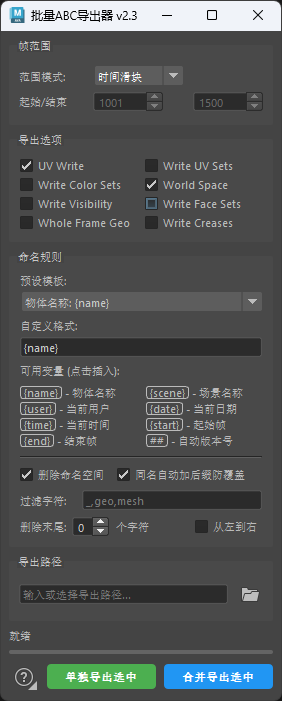
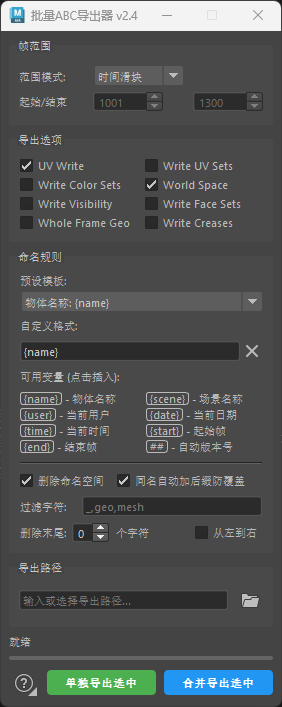
v2.4：自定义格式一键清空、清空图标矢量化抗模糊、去除最大化按钮、进度百分比整数显示

diff --git a/Batch_ABC_Export.py b/Batch_ABC_Export.py
@@ -3,8 +3,8 @@
 -------------------------------------------------------------
  插件名称: 批量ABC导出器
  作者: toyvfish
- 当前版本: v2.3
- 最后更新时间: 2026-10-15
+ 当前版本: v2.4
+ 最后更新时间: 2026-10-19
  适用软件: Autodesk Maya (PySide2 / PySide6)
  功能简介: 批量 Alembic (ABC) 导出工具，支持单独/合并导出、
            智能命名模板、自动版本号、同名防覆盖与设置记忆
@@ -57,7 +57,7 @@ def _get_header_candidate_paths():
     return paths
 
 
-def _read_header_version(default="v2.3"):
+def _read_header_version(default="v2.4"):
     """从文件头信息中读取“当前版本”字段，读取失败时回退 default
 
     优先解析模块 docstring(__doc__): 无论 import、脚本编辑器粘贴执行
@@ -257,6 +257,7 @@ class HelpDialog(QtWidgets.QDialog):
 <p>• 镜头版本：场景_物体_版本_用户</p>
 <p>• 日期版本：物体_日期_版本</p>
 <p>• 时间范围：物体_起始帧-结束帧</p>
+<p>• 自定义格式输入框右侧的 Maya 图标按钮可一键清空格式内容</p>
 <p>------------------------------------------------------------------
 
 <p><b>可用变量：</b>（在主界面命名规则区域点击变量按钮，可直接插入到自定义格式输入框）</p>
@@ -310,6 +311,17 @@ class HelpDialog(QtWidgets.QDialog):
         # 更新日志内容
         changelog_content = """
 <h2>更新日志</h2>
+
+<h3>v2.4</h3>
+
+<p style="margin-top: 12px">• <b>[新增] 自定义格式一键清空</b></p>
+<p style="margin-left: 14px">点击即可清空格式内容并同步模板为“自定义”。</p>
+
+<p style="margin-top: 12px">• <b>[移除] 去除窗口最大化按钮</b></p>
+<p style="margin-left: 14px">插件独立窗口标题栏只保留最小化与关闭按钮，不再显示最大化按钮。</p>
+
+<p style="margin-top: 12px">• <b>[优化] 进度百分比只显示整数</b></p>
+<p style="margin-left: 14px">底部进度条百分比文字去除小数，只显示整数百分比。</p>
 
 <h3>v2.3</h3>
 
@@ -381,7 +393,10 @@ class ABCExporterUI(QtWidgets.QWidget):
         super(ABCExporterUI, self).__init__(parent)
         self.setWindowTitle("{0} {1}".format(PLUGIN_NAME, _read_header_version()))
         self.setMinimumWidth(280)
-        self.setWindowFlags(QtCore.Qt.Window)  # 设置为独立窗口
+        # 独立窗口:标题栏只保留最小化与关闭按钮,不显示最大化按钮
+        self.setWindowFlags(QtCore.Qt.Window
+                            | QtCore.Qt.WindowMinimizeButtonHint
+                            | QtCore.Qt.WindowCloseButtonHint)
         self.export_path = ""  # 存储导出路径
         self.exporting = False         # 是否正在导出(ESC 中断仅在此时生效)
         self.export_cancelled = False  # ESC 触发的取消标志
@@ -489,10 +504,41 @@ class ABCExporterUI(QtWidgets.QWidget):
         pattern_layout.addWidget(QtWidgets.QLabel("自定义格式:"))
         main_layout.addLayout(pattern_layout)
 
-        # 输入名称
+        # 输入名称 + 清空按钮:按钮紧贴输入框右侧,输入框让出按钮宽度,
+        # 整行宽度保持不变,避免为此增加插件窗口宽度
         name_layout = QtWidgets.QHBoxLayout()
+        name_layout.setSpacing(2)   # 输入框与清空图标贴得更近
         self.name_pattern = QtWidgets.QLineEdit("{name}")
-        name_layout.addWidget(self.name_pattern)
+        name_layout.addWidget(self.name_pattern, 1)   # 占据按钮以外的剩余宽度
+        self.clear_pattern_btn = QtWidgets.QPushButton()
+        # 不再取 Maya 内置 closeTabButton.png 位图:源图分辨率低,裁剪
+        # 放大后(高 DPI 屏放大倍数更高)图标发虚;改为矢量绘制"×",
+        # 按设备像素比以物理像素抗锯齿光栅化,任意缩放比例下都清晰锐利
+        clear_icon = self.make_vector_close_icon()
+        if clear_icon.isNull():
+            self.clear_pattern_btn.setText("×")
+        else:
+            self.clear_pattern_btn.setIcon(clear_icon)
+        self.clear_pattern_btn.setIconSize(QtCore.QSize(16, 16))
+        self.clear_pattern_btn.setFixedSize(20, 20)   # 只占行内宽度,不撑宽窗口
+        self.clear_pattern_btn.setFlat(True)
+        self.clear_pattern_btn.setToolTip("清空自定义格式输入框")
+        self.clear_pattern_btn.setStyleSheet("""
+            QPushButton {
+                border: none;
+                background: transparent;
+                padding: 0;
+            }
+            QPushButton:hover {
+                background-color: rgba(255, 255, 255, 30);
+                border-radius: 4px;
+            }
+            QPushButton:pressed {
+                background-color: rgba(255, 255, 255, 50);
+            }
+        """)
+        self.clear_pattern_btn.clicked.connect(self.clear_name_pattern)
+        name_layout.addWidget(self.clear_pattern_btn)
         main_layout.addLayout(name_layout)
         
         # 变量提示:每个变量改为可点击按钮,点击即插入到自定义格式输入框
@@ -732,6 +778,55 @@ class ABCExporterUI(QtWidgets.QWidget):
         help_dialog = HelpDialog(self)
         help_dialog.exec_()
 
+    def make_vector_close_icon(self, size=14):
+        """矢量绘制"×"清空图标,任意 DPI 下都清晰锐利
+
+        之前用 Maya 内置 closeTabButton.png 位图再裁剪放大,源图分辨率
+        不足,高分屏上发虚。这里直接用 QPainter 抗锯齿绘制 X 形:按
+        devicePixelRatio 以物理像素光栅化,全程不做位图缩放;线宽与
+        端点边距按逻辑尺寸自适应,颜色跟随主题文字色,深浅主题都清晰
+        """
+        try:
+            try:
+                dpr = float(self.devicePixelRatioF())
+            except Exception:
+                dpr = 1.0
+            if dpr <= 0:
+                dpr = 1.0
+            size = max(1, int(size))
+            phys = max(1, int(round(size * dpr)))   # 物理像素画布尺寸
+
+            image = QtGui.QImage(phys, phys,
+                                 QtGui.QImage.Format_ARGB32_Premultiplied)
+            image.setDevicePixelRatio(dpr)   # 标记后统一用逻辑坐标绘制
+            image.fill(QtCore.Qt.transparent)
+
+            painter = QtGui.QPainter(image)
+            painter.setRenderHint(QtGui.QPainter.Antialiasing, True)
+            color = self.palette().color(QtGui.QPalette.WindowText)
+            if not color.isValid():
+                color = QtGui.QColor(255, 255, 255)
+            line_w = max(1.0, float(round(size / 8.0)))   # 逻辑线宽,随图标缩放
+            pen = QtGui.QPen(color, line_w)
+            pen.setCapStyle(QtCore.Qt.RoundCap)
+            painter.setPen(pen)
+            inset = line_w / 2.0 + 1.0   # 端点留边,避免圆头被画布裁掉
+            painter.drawLine(QtCore.QLineF(inset, inset,
+                                           size - inset, size - inset))
+            painter.drawLine(QtCore.QLineF(size - inset, inset,
+                                           inset, size - inset))
+            painter.end()
+
+            pixmap = QtGui.QPixmap.fromImage(image)
+            try:
+                pixmap.setDevicePixelRatio(dpr)
+            except Exception:
+                pass
+            return QtGui.QIcon(pixmap)
+        except Exception:
+            # 极端情况(如旧版 Qt 缺少 DPR 接口)回退为空图标,上层用文字兜底
+            return QtGui.QIcon()
+
     def make_menu_indicator_icon(self, icon_name):
         """给图标右下角合成一个小三角,提示按钮带有右键菜单(仿 Maya 工具栏样式)
 
@@ -761,11 +856,90 @@ class ABCExporterUI(QtWidgets.QWidget):
         painter.end()
         return QtGui.QIcon(pix)
 
+    def make_themed_icon(self, icon_name, size=18):
+        """取 Maya 内置图标,裁掉透明边后放大居中,并按主题文字色着色
+
+        Maya 内置图标画布通常大于图形本身且带透明边距,直接使用会显得
+        又小又偏。这里先取非透明内容的包围盒,把图形缩放居中到目标画布,
+        再把颜色替换为当前主题文字色,深色/浅色主题下都清晰可见
+        """
+        try:
+            icon = get_maya_icon(icon_name)
+            if icon.isNull():
+                return QtGui.QIcon()
+            # 取内置图标可用的最大尺寸作为源图,避免先缩小再放大导致模糊
+            sizes = icon.availableSizes()
+            if sizes:
+                source_size = max(sizes, key=lambda s: s.width() * s.height())
+            else:
+                source_size = QtCore.QSize(size * 4, size * 4)
+            base = icon.pixmap(source_size)
+            if base.isNull():
+                return QtGui.QIcon()
+            image = base.toImage().convertToFormat(QtGui.QImage.Format_ARGB32)
+
+            # 1. 查找非透明内容的包围盒,裁掉 Maya 图标自带的透明边距
+            left, top = image.width(), image.height()
+            right = bottom = -1
+            for y in range(image.height()):
+                for x in range(image.width()):
+                    if image.pixelColor(x, y).alpha() > 0:
+                        left = min(left, x)
+                        top = min(top, y)
+                        right = max(right, x)
+                        bottom = max(bottom, y)
+            if right < left or bottom < top:
+                return QtGui.QIcon()
+
+            # 2. 按设备像素比缩放到正方形画布,并居中(四周留 1 逻辑像素)
+            try:
+                dpr = float(base.devicePixelRatio())
+            except Exception:
+                dpr = 1.0
+            if dpr <= 0:
+                dpr = 1.0
+            canvas = max(1, int(round(size * dpr)))
+            margin = max(1, int(round(dpr)))
+            avail = max(1, canvas - margin * 2)
+            cropped = image.copy(left, top, right - left + 1, bottom - top + 1)
+            scaled = cropped.scaled(avail, avail,
+                                    QtCore.Qt.KeepAspectRatio,
+                                    QtCore.Qt.SmoothTransformation)
+            canvas_image = QtGui.QImage(canvas, canvas,
+                                        QtGui.QImage.Format_ARGB32)
+            canvas_image.fill(QtCore.Qt.transparent)
+            painter = QtGui.QPainter(canvas_image)
+            painter.setRenderHint(QtGui.QPainter.SmoothPixmapTransform, True)
+            painter.drawImage((canvas - scaled.width()) // 2,
+                              (canvas - scaled.height()) // 2, scaled)
+            painter.end()
+
+            # 3. 按主题文字色着色(保留 alpha,确保深浅主题都清晰)
+            text_color = self.palette().color(QtGui.QPalette.WindowText)
+            for y in range(canvas_image.height()):
+                for x in range(canvas_image.width()):
+                    alpha = canvas_image.pixelColor(x, y).alpha()
+                    if alpha:
+                        canvas_image.setPixelColor(x, y, QtGui.QColor(
+                            text_color.red(), text_color.green(),
+                            text_color.blue(), alpha))
+
+            pixmap = QtGui.QPixmap.fromImage(canvas_image)
+            try:
+                pixmap.setDevicePixelRatio(dpr)
+            except Exception:
+                pass
+            return QtGui.QIcon(pixmap)
+        except Exception:
+            # 极端情况(如旧版 Qt 不支持逐像素 API)回退,交给上层用备用图标/文字
+            return QtGui.QIcon()
+
     def set_progress(self, current, total, text):
-        """按实际已处理工作量更新进度，显示精度为 0.1%。"""
+        """按实际已处理工作量更新进度,百分比文字只显示整数,不显示小数"""
         value = max(0, min(1000, int(current / total * 1000))) if total > 0 else 0
         self.progress_bar.setValue(value)
-        self.progress_label.setText(f"{value / 10:.1f}%  {text}")
+        percent = int(value / 10)   # 0~100 整数百分比:直接截断小数位
+        self.progress_label.setText(f"{percent}%  {text}")
         QtWidgets.QApplication.processEvents()
 
     def run_export(self, job, file_name, start, end, completed, total, text):
@@ -1025,7 +1199,20 @@ class ABCExporterUI(QtWidgets.QWidget):
         line_edit.setText(text[:pos] + prefix + var + text[pos:])
         line_edit.setCursorPosition(pos + len(prefix) + len(var))
         line_edit.setFocus()
-    
+
+    def clear_name_pattern(self):
+        """一键清空自定义格式输入框,并把预设模板同步切到“自定义”
+
+        下拉框不同步会继续显示旧预设名称,容易误以为格式仍是该预设;
+        只切下拉框、不触发 apply_template,避免再次改写输入框内容
+        """
+        self.name_pattern.clear()
+        if self.template_combo.currentIndex() != 6:   # 6 = 自定义
+            self.template_combo.blockSignals(True)
+            self.template_combo.setCurrentIndex(6)
+            self.template_combo.blockSignals(False)
+        self.name_pattern.setFocus()
+
     def update_frame_range(self):
         """根据范围模式更新帧范围控件状态"""
         mode = self.range_mode.currentText()
